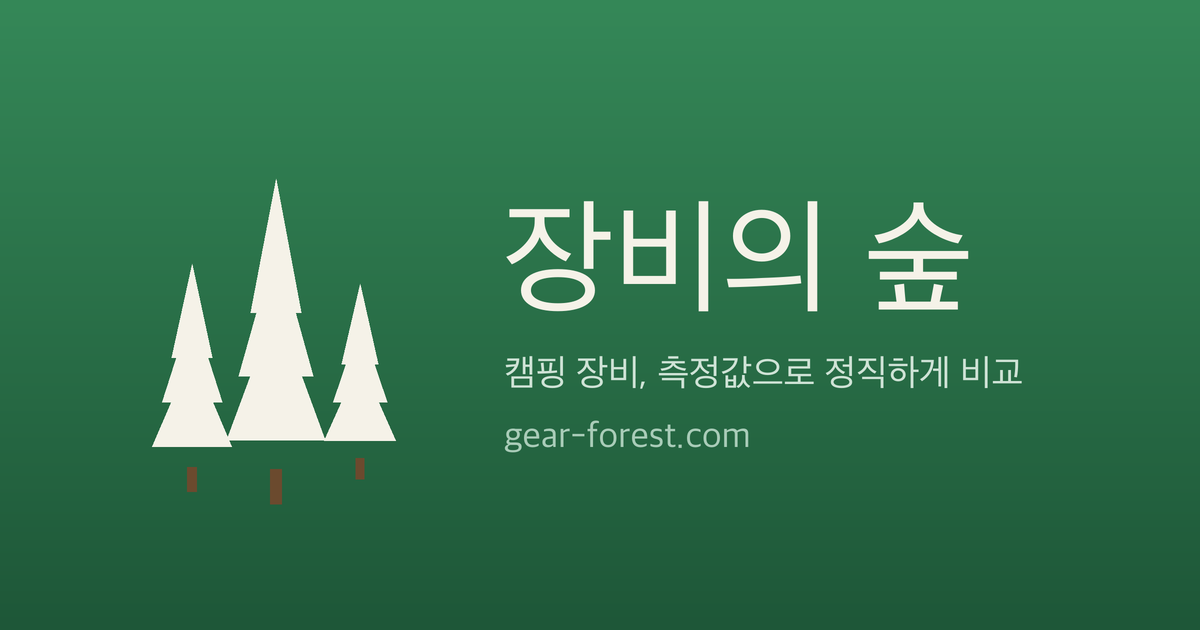
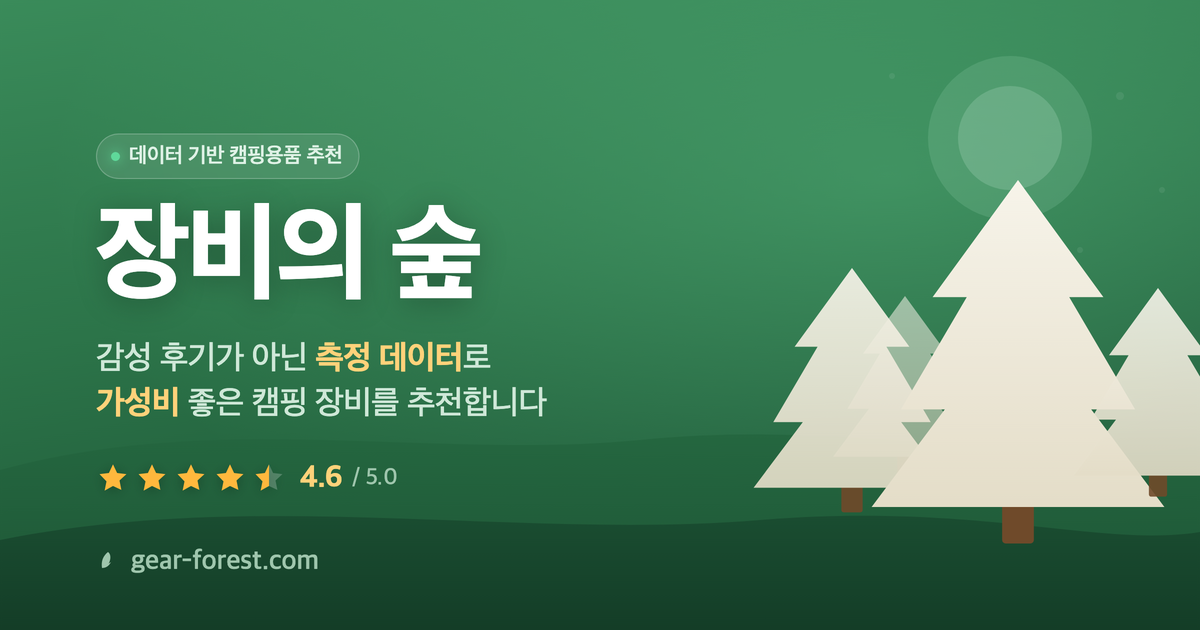
feat(og): OG 이미지·메타태그를 '데이터 기반 캠핑용품 추천' 컨셉으로 개편
- 숲 씬(언덕·햇무리·다층 전나무) + 별점 모티프로 OG 이미지 리디자인
- 카피: "감성 후기가 아닌 측정 데이터로 가성비 좋은 캠핑 장비 추천"
- index.html title/description/og/twitter 메타 6곳 신규 컨셉으로 통일
- scripts/og-image.html: Chrome 헤드리스 렌더용 생성 소스 추가

diff --git a/scripts/og-image.html b/scripts/og-image.html
@@ -1,0 +1,132 @@
+<!doctype html>
+<html lang="ko">
+<head>
+<meta charset="utf-8">
+<style>
+  * { margin:0; padding:0; box-sizing:border-box; }
+  html,body { width:1200px; height:630px; overflow:hidden; }
+  body {
+    font-family:"Pretendard","Apple SD Gothic Neo",-apple-system,BlinkMacSystemFont,sans-serif;
+    position:relative;
+  }
+  .card { position:absolute; inset:0; }
+  svg { display:block; }
+
+  .content {
+    position:absolute; left:96px; top:0; height:630px;
+    display:flex; flex-direction:column; justify-content:center;
+    z-index:5;
+  }
+  .badge {
+    display:inline-flex; align-items:center; gap:9px;
+    align-self:flex-start;
+    padding:9px 16px 9px 14px; border-radius:999px;
+    background:rgba(255,255,255,.10);
+    border:1px solid rgba(255,255,255,.22);
+    color:#dff2e6; font-size:21px; font-weight:600; letter-spacing:-0.01em;
+    margin-bottom:26px;
+    backdrop-filter:blur(2px);
+  }
+  .badge .dot { width:9px; height:9px; border-radius:50%; background:#5fd99a; box-shadow:0 0 12px #5fd99a; }
+  .title {
+    color:#ffffff; font-size:108px; font-weight:800; letter-spacing:-0.035em;
+    line-height:1.0; text-shadow:0 4px 30px rgba(0,0,0,.28);
+  }
+  .tagline {
+    color:#cfe8d8; font-size:33px; font-weight:500; letter-spacing:-0.02em;
+    margin-top:24px; line-height:1.35;
+  }
+  .tagline b { color:#ffd27a; font-weight:700; }
+  .stars { display:flex; align-items:center; gap:14px; margin-top:34px; }
+  .stars .row { display:flex; gap:5px; }
+  .stars .row svg { filter:drop-shadow(0 2px 6px rgba(0,0,0,.25)); }
+  .stars .score { color:#ffd27a; font-size:30px; font-weight:800; letter-spacing:-0.01em; }
+  .stars .unit { color:#9fc6ad; font-size:23px; font-weight:500; margin-left:-4px; }
+  .domain {
+    position:absolute; left:96px; bottom:52px;
+    color:#9fc6ad; font-size:27px; font-weight:600; letter-spacing:0.01em;
+    display:flex; align-items:center; gap:11px; z-index:5;
+  }
+  .domain .leaf { width:24px; height:24px; }
+</style>
+</head>
+<body>
+<div class="card">
+  <svg width="1200" height="630" viewBox="0 0 1200 630" xmlns="http://www.w3.org/2000/svg">
+    <defs>
+      <linearGradient id="sky" x1="0" y1="0" x2="0.35" y2="1">
+        <stop offset="0" stop-color="#3a8b5a"/>
+        <stop offset="0.5" stop-color="#2c7449"/>
+        <stop offset="1" stop-color="#1c5435"/>
+      </linearGradient>
+      <radialGradient id="glow" cx="0.74" cy="0.28" r="0.7">
+        <stop offset="0" stop-color="#6fd89a" stop-opacity="0.30"/>
+        <stop offset="1" stop-color="#6fd89a" stop-opacity="0"/>
+      </radialGradient>
+      <linearGradient id="hill1" x1="0" y1="0" x2="0" y2="1">
+        <stop offset="0" stop-color="#24663f"/>
+        <stop offset="1" stop-color="#1d5435"/>
+      </linearGradient>
+      <linearGradient id="hill2" x1="0" y1="0" x2="0" y2="1">
+        <stop offset="0" stop-color="#1a4d31"/>
+        <stop offset="1" stop-color="#143d27"/>
+      </linearGradient>
+      <linearGradient id="tree" x1="0" y1="0" x2="0" y2="1">
+        <stop offset="0" stop-color="#f7f4ea"/>
+        <stop offset="1" stop-color="#e4ddc8"/>
+      </linearGradient>
+      <!-- one fir made of stacked tiers (matching brand icon) -->
+      <g id="fir">
+        <rect x="-13" y="248" width="26" height="50" rx="3" fill="#6f4a2a"/>
+        <path d="M0 0 L70 96 L42 96 L96 188 L60 188 L120 268 L-120 268 L-60 188 L-96 188 L-42 96 L-70 96 Z" fill="url(#tree)"/>
+      </g>
+    </defs>
+
+    <!-- sky -->
+    <rect width="1200" height="630" fill="url(#sky)"/>
+    <rect width="1200" height="630" fill="url(#glow)"/>
+
+    <!-- soft sun disc (upper right, behind forest) -->
+    <circle cx="1010" cy="138" r="82" fill="#bff0d2" opacity="0.14"/>
+    <circle cx="1010" cy="138" r="52" fill="#dffbe9" opacity="0.18"/>
+
+    <!-- distant mist dots -->
+    <g fill="#ffffff" opacity="0.07">
+      <circle cx="1120" cy="96" r="4"/><circle cx="1162" cy="190" r="3"/>
+      <circle cx="892" cy="76" r="3"/><circle cx="1080" cy="250" r="3"/>
+    </g>
+
+    <!-- layered hills -->
+    <path d="M0 470 C 220 410 430 460 640 440 C 860 418 1040 470 1200 446 L1200 630 L0 630 Z" fill="url(#hill1)" opacity="0.9"/>
+    <path d="M0 540 C 260 488 520 540 760 520 C 980 502 1100 548 1200 532 L1200 630 L0 630 Z" fill="url(#hill2)"/>
+
+    <!-- forest cluster anchored bottom-right, clear of the text column -->
+    <use href="#fir" transform="translate(905 296) scale(0.60)" fill="#1f5e3b" opacity="0.55"/>
+    <use href="#fir" transform="translate(852 268) scale(0.82)" opacity="0.92"/>
+    <use href="#fir" transform="translate(1018 180) scale(1.22)"/>
+    <use href="#fir" transform="translate(1158 288) scale(0.70)" opacity="0.9"/>
+  </svg>
+
+  <div class="content">
+    <span class="badge"><span class="dot"></span>데이터 기반 캠핑용품 추천</span>
+    <div class="title">장비의 숲</div>
+    <div class="tagline">감성 후기가 아닌 <b>측정 데이터</b>로<br><b>가성비</b> 좋은 캠핑 장비를 추천합니다</div>
+    <div class="stars">
+      <span class="row">
+        <svg width="34" height="34" viewBox="0 0 24 24" fill="#ffb83d"><path d="M12 2l2.9 6.1 6.6.8-4.9 4.5 1.3 6.6L12 17.3 6.1 20.6l1.3-6.6L2.5 8.9l6.6-.8z"/></svg>
+        <svg width="34" height="34" viewBox="0 0 24 24" fill="#ffb83d"><path d="M12 2l2.9 6.1 6.6.8-4.9 4.5 1.3 6.6L12 17.3 6.1 20.6l1.3-6.6L2.5 8.9l6.6-.8z"/></svg>
+        <svg width="34" height="34" viewBox="0 0 24 24" fill="#ffb83d"><path d="M12 2l2.9 6.1 6.6.8-4.9 4.5 1.3 6.6L12 17.3 6.1 20.6l1.3-6.6L2.5 8.9l6.6-.8z"/></svg>
+        <svg width="34" height="34" viewBox="0 0 24 24" fill="#ffb83d"><path d="M12 2l2.9 6.1 6.6.8-4.9 4.5 1.3 6.6L12 17.3 6.1 20.6l1.3-6.6L2.5 8.9l6.6-.8z"/></svg>
+        <svg width="34" height="34" viewBox="0 0 24 24"><defs><linearGradient id="half" x1="0" y1="0" x2="1" y2="0"><stop offset="0.5" stop-color="#ffb83d"/><stop offset="0.5" stop-color="rgba(255,255,255,.22)"/></linearGradient></defs><path d="M12 2l2.9 6.1 6.6.8-4.9 4.5 1.3 6.6L12 17.3 6.1 20.6l1.3-6.6L2.5 8.9l6.6-.8z" fill="url(#half)"/></svg>
+      </span>
+      <span class="score">4.6</span><span class="unit">/ 5.0</span>
+    </div>
+  </div>
+
+  <div class="domain">
+    <svg class="leaf" viewBox="0 0 24 24" fill="#9fc6ad"><path d="M12 2C7 6 5 11 6 18c0 0 5-1 7-5s2-9-1-11zM6 18c4 0 7-2 9-6"/></svg>
+    gear-forest.com
+  </div>
+</div>
+</body>
+</html>

diff --git a/site/index.html b/site/index.html
@@ -3,21 +3,21 @@
 <head>
 <meta charset="utf-8">
 <meta name="viewport" content="width=device-width,initial-scale=1,viewport-fit=cover">
-<title>장비의 숲 — 정량스펙 별점 DB</title>
-<meta name="description" content="캠핑 장비의 정량 스펙을 측정값만으로 별점 비교하는 정직한 데이터베이스">
+<title>장비의 숲 — 데이터 기반 캠핑용품 추천</title>
+<meta name="description" content="감성 후기가 아닌 측정 데이터로 가성비 좋은 캠핑 장비를 추천합니다">
 <link rel="canonical" href="https://gear-forest.com/">
 <meta property="og:type" content="website">
 <meta property="og:site_name" content="장비의 숲">
 <meta property="og:locale" content="ko_KR">
-<meta property="og:title" content="장비의 숲 — 캠핑 장비 정직 비교">
-<meta property="og:description" content="캠핑 장비의 정량 스펙을 측정값만으로 별점 비교하는 정직한 데이터베이스">
+<meta property="og:title" content="장비의 숲 — 데이터 기반 캠핑용품 추천">
+<meta property="og:description" content="감성 후기가 아닌 측정 데이터로 가성비 좋은 캠핑 장비를 추천합니다">
 <meta property="og:url" content="https://gear-forest.com/">
 <meta property="og:image" content="https://gear-forest.com/og-image.png">
 <meta property="og:image:width" content="1200">
 <meta property="og:image:height" content="630">
 <meta name="twitter:card" content="summary_large_image">
-<meta name="twitter:title" content="장비의 숲 — 캠핑 장비 정직 비교">
-<meta name="twitter:description" content="캠핑 장비의 정량 스펙을 측정값만으로 별점 비교하는 정직한 데이터베이스">
+<meta name="twitter:title" content="장비의 숲 — 데이터 기반 캠핑용품 추천">
+<meta name="twitter:description" content="감성 후기가 아닌 측정 데이터로 가성비 좋은 캠핑 장비를 추천합니다">
 <meta name="twitter:image" content="https://gear-forest.com/og-image.png">
 <meta name="theme-color" content="#2f7a4e">
 <link rel="manifest" href="manifest.webmanifest">